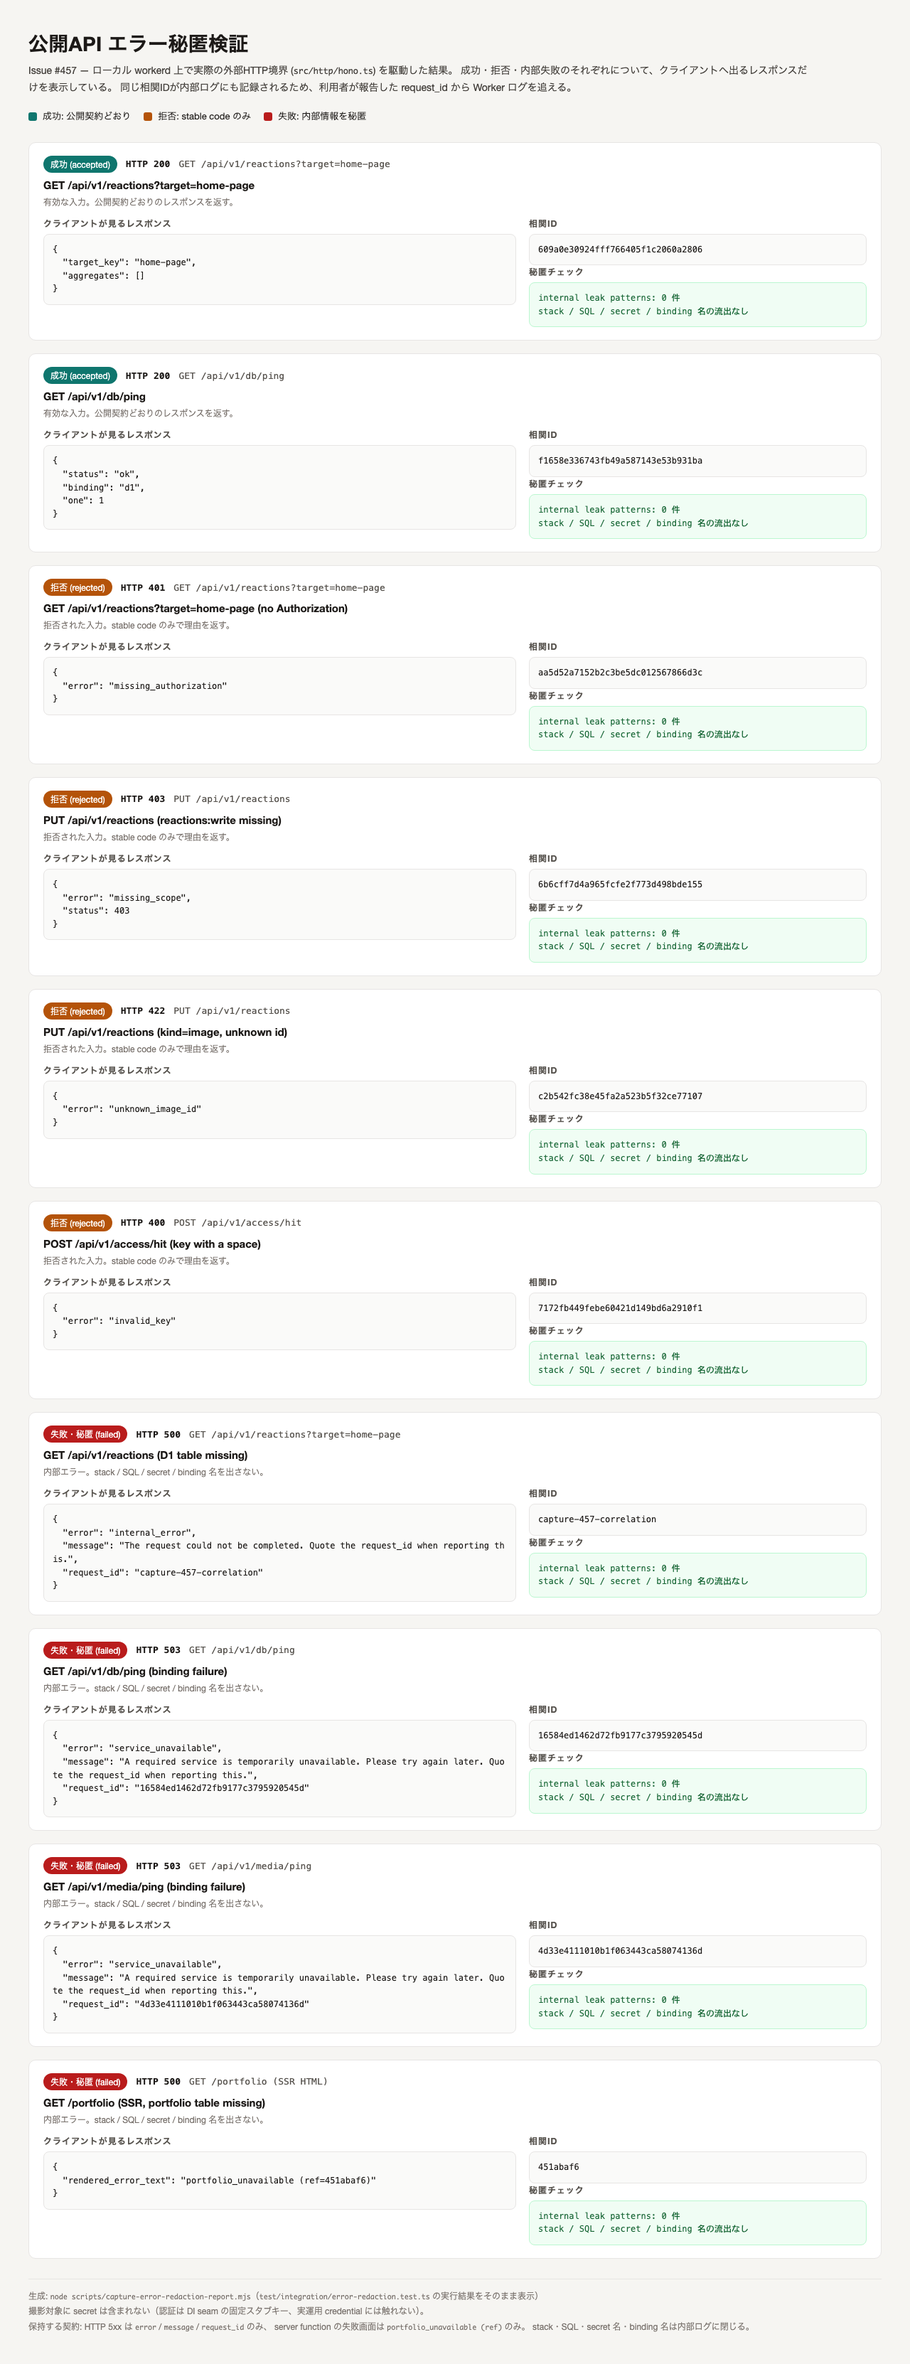
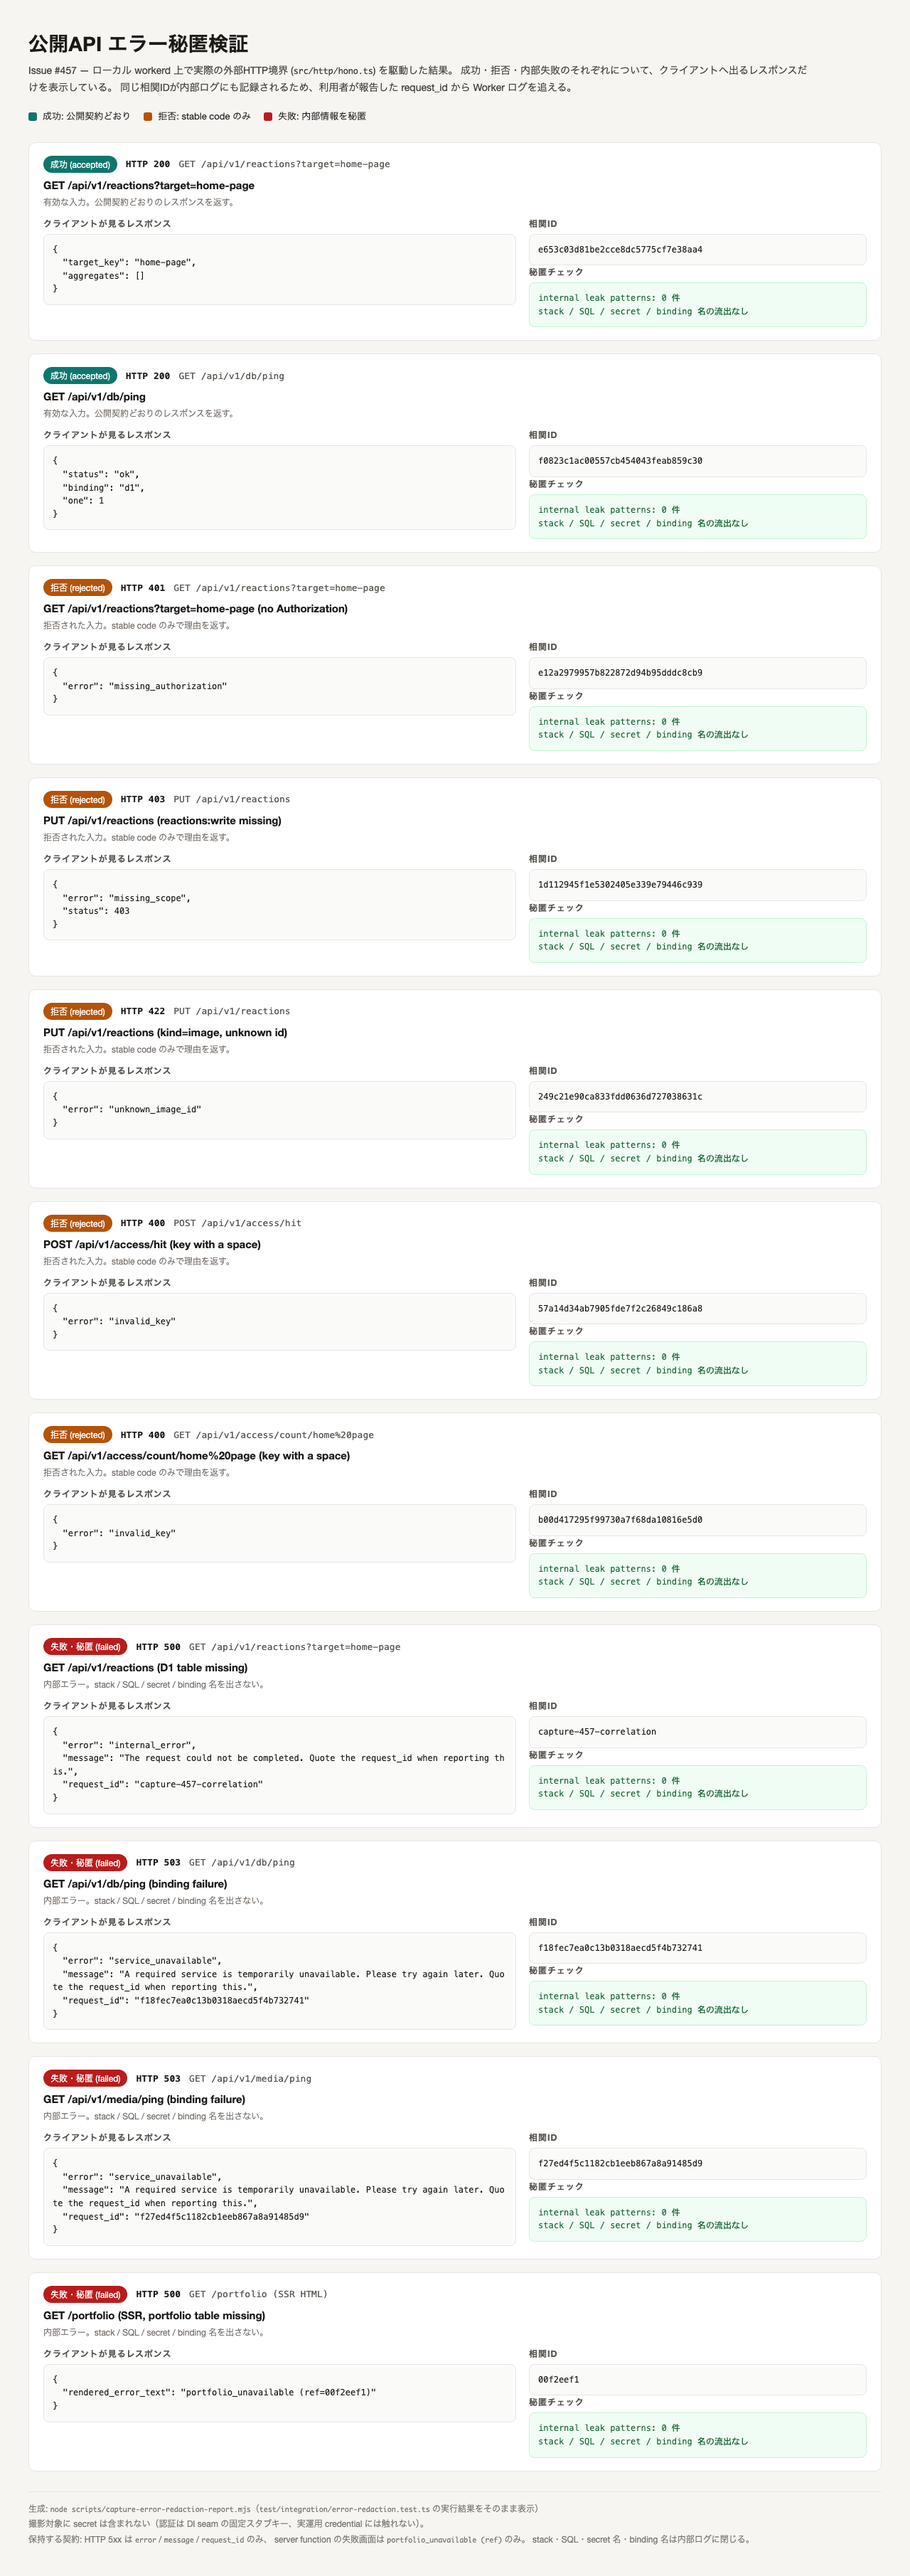
fix(http): answer 400 for a malformed counter key on the read path (#457)

diff --git a/test/integration/error-redaction.test.ts b/test/integration/error-redaction.test.ts
@@ -263,6 +263,23 @@ describe('rejected input is named, not leaked (Issue #457)', () => {
 		expect(res.status).toBe(400);
 		expect(body.error).toBe('invalid_key');
 	});
+
+	it('a counter key containing a space answers 400 on the read path too', async () => {
+		// Same defect on `GET /count/:key`: the length guard passed
+		// and `validateCounterKey` then threw out of the handler,
+		// producing a 500 for a plain client mistake.
+		stubApiKey({ access_counter: ['read', 'write'] });
+		const { res, body } = await call(
+			'GET /api/v1/access/count/home%20page (key with a space)',
+			'rejected',
+			{
+				path: '/api/v1/access/count/home%20page',
+				init: { headers: { authorization: 'Bearer mk_home_capture_stub' } },
+			},
+		);
+		expect(res.status).toBe(400);
+		expect(body.error).toBe('invalid_key');
+	});
 });
 
 describe('failed input is redacted but still correlatable (Issue #457)', () => {

diff --git a/src/http/access-counter/router.ts b/src/http/access-counter/router.ts
@@ -85,7 +85,16 @@ accessCounterRouter.get('/count/:key', requireApiKey, rateLimitRead, async (c) =
 	if (!rawKey || rawKey.length === 0 || rawKey.length > MAX_COUNTER_KEY_LEN) {
 		return c.json({ error: 'invalid_key' }, 400);
 	}
-	const key = validateCounterKey(rawKey);
+	// Same Issue #457 reason as the POST sibling: the length guard
+	// above does not cover the character set, so a key containing a
+	// space or a control char must still answer 400 rather than
+	// escaping as an unhandled throw.
+	let key: string;
+	try {
+		key = validateCounterKey(rawKey);
+	} catch {
+		return c.json({ error: 'invalid_key' }, 400);
+	}
 	// Per-principal isolation (ADR-0012 §3): each consumer sees only
 	// its own counter row for the same `key`. The principal is the
 	// authenticated API key id — no client input accepted.

diff --git a/src/http/errors.ts b/src/http/errors.ts
@@ -72,8 +72,12 @@ export interface PublicErrorBody {
 type ErrorContext = Context<{ Bindings: Env; Variables: { requestId?: string } }>;
 
 export interface PublicErrorOptions {
-	/** HTTP status for the redacted response (500 or 503 in practice). */
-	status: number;
+	/**
+	 * HTTP status for the redacted response. Narrowed to the two the
+	 * boundary actually emits: an unexpected throw is 500, a failed
+	 * dependency probe is 503.
+	 */
+	status: 500 | 503;
 	/** Stable code exposed to the client. */
 	code: PublicErrorCode;
 	/**
@@ -125,5 +129,5 @@ export function publicErrorResponse(
 		message: PUBLIC_MESSAGES[options.code],
 		request_id: requestId,
 	};
-	return c.json(body, options.status as 500);
+	return c.json(body, options.status);
 }
